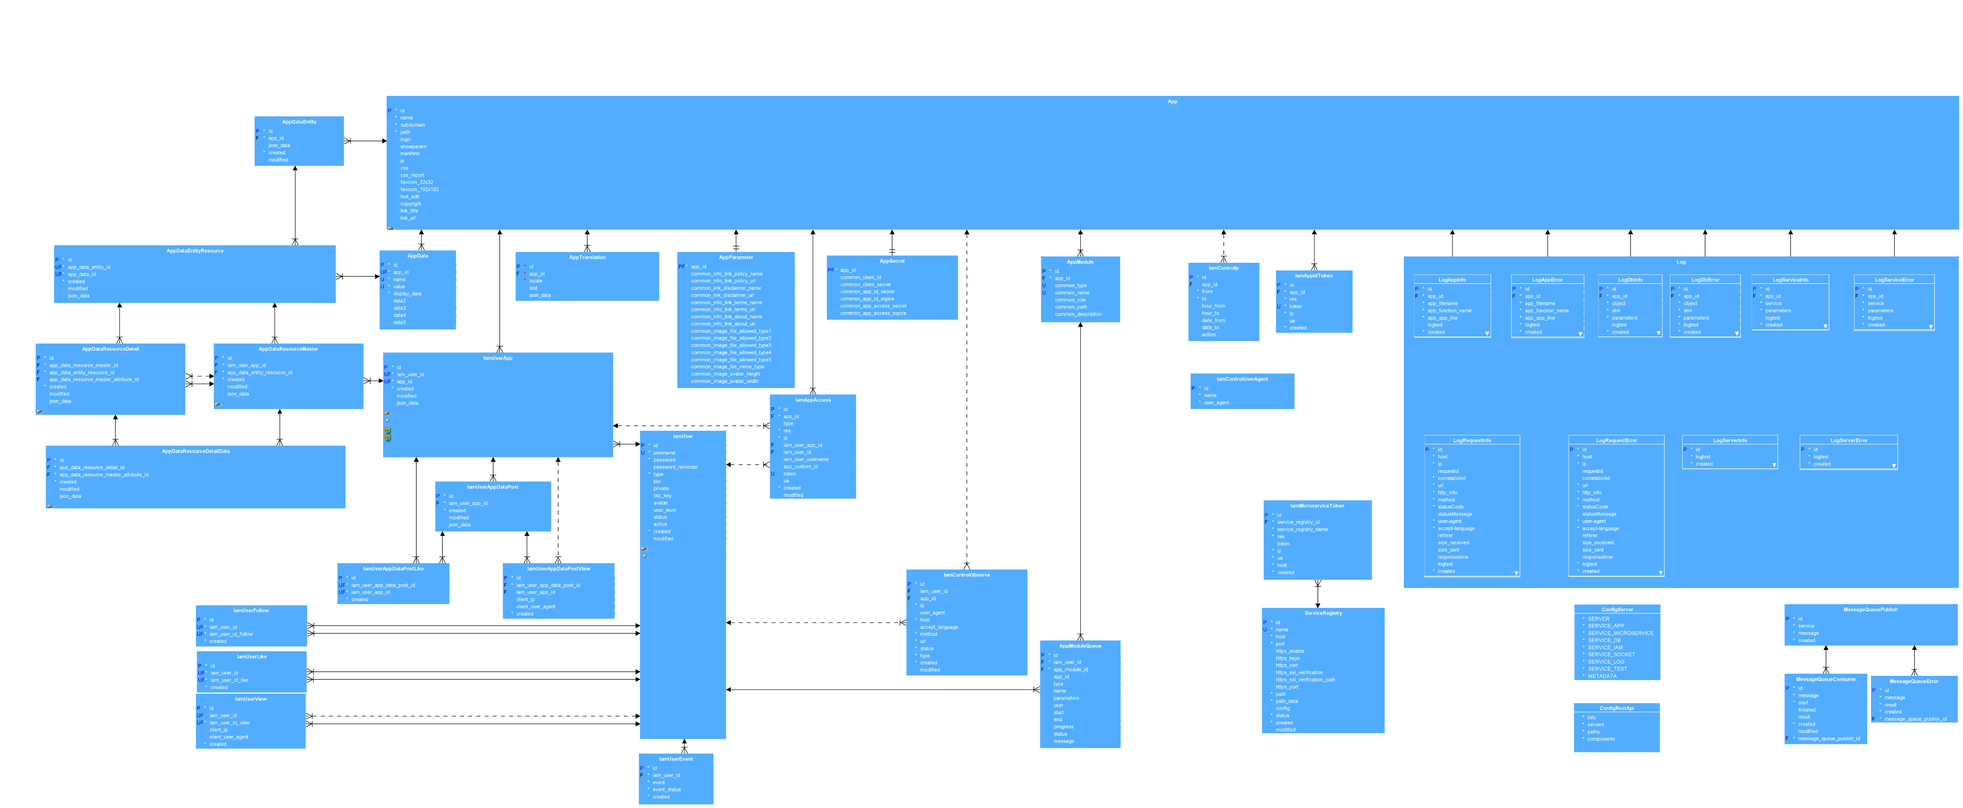
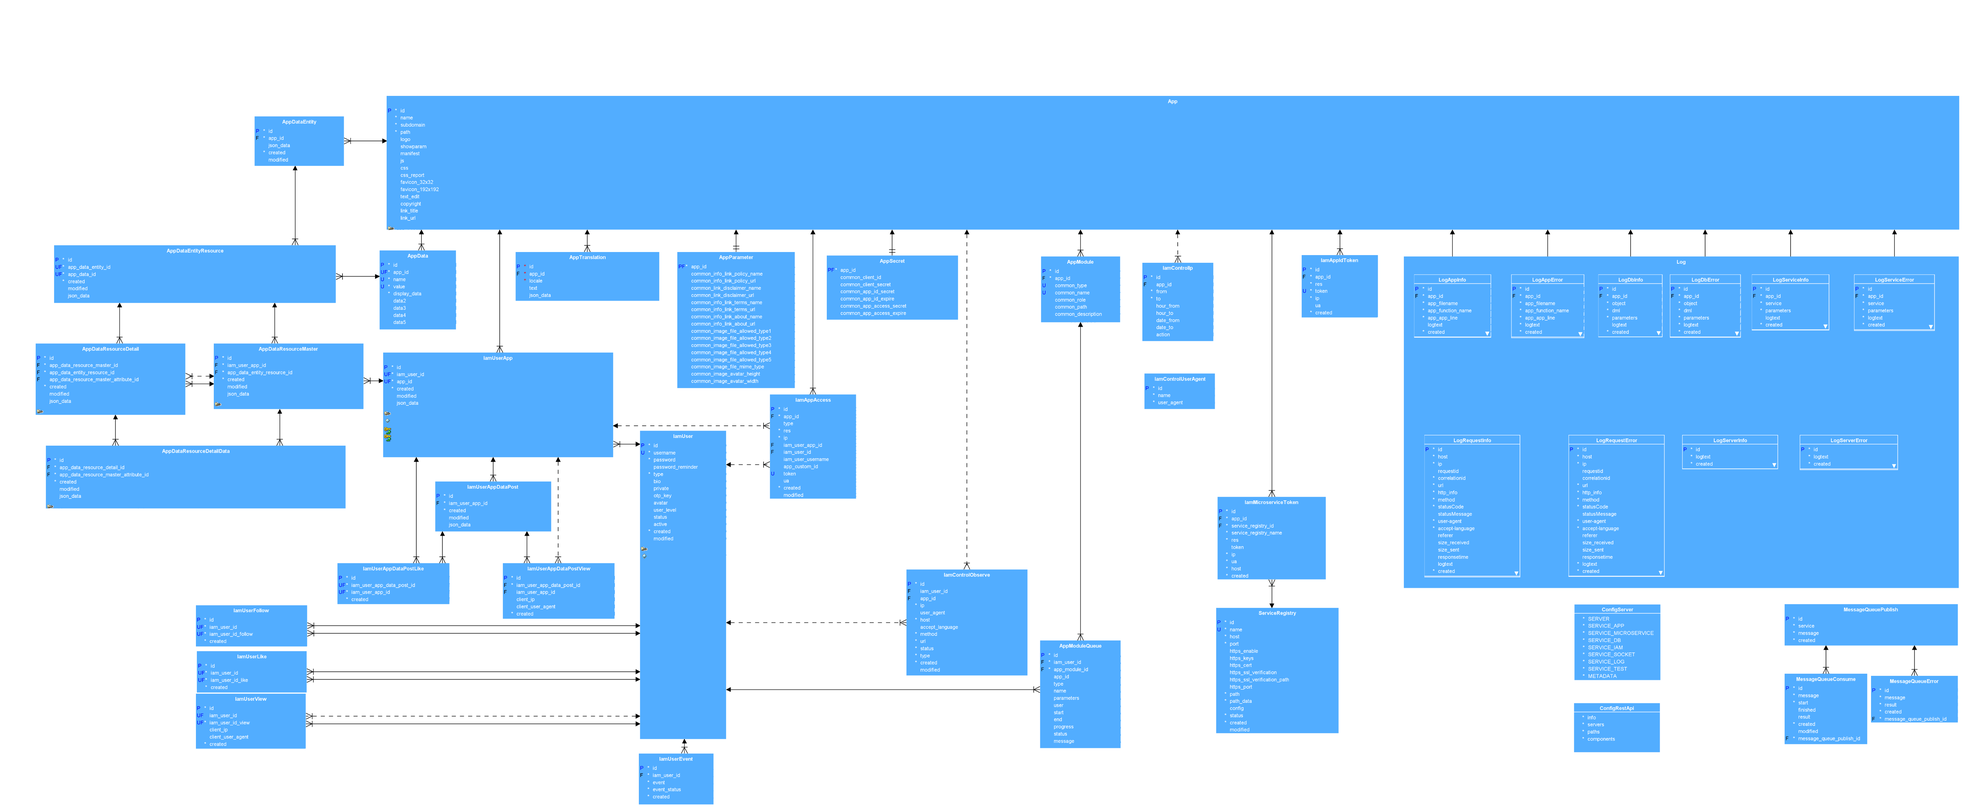
AP-41 adds FK from App to IamMicroserviceToken in data model, adds route for /bff/microservice/v1 and /bff/microservice_auth/v1, adds rest api /bff/microservice_auth/v1/server-iam-microservice/{IAM_service} that returns token to microservice, adds iamAuthenticateMicroservice() and updates iamAuthent

Changed region(s): [[0.5613, 0.3119, 0.7172, 0.5302], [0.5924, 0.7486, 0.7172, 0.9045], [0.5924, 0.5926, 0.7172, 0.7174]]

diff --git a/server/iam.js b/server/iam.js
@@ -7,6 +7,8 @@
  *          server_db_config_server_server,
  *          server_db_table_IamAppIdToken,
  *          server_db_table_IamAppAccess,
+ *          server_db_table_IamMicroserviceToken,
+ *          server_db_table_ServiceRegistry,
  *          server_db_table_IamUser,
  *          server_db_table_IamUserApp,
  *          server_db_table_IamUserEvent,
@@ -688,22 +690,39 @@ const iamAuthenticateUserAppDelete = async parameters => {
  */
  const iamAuthenticateUserCommon = async parameters  =>{
     const app_id_host = commonAppHost(parameters.host);
-    //APP_EXTERNAL and APP_ACCESS_EXTERNALK do not use idToken
-    if ((parameters.idToken ||parameters.endpoint=='APP_EXTERNAL' ||parameters.endpoint=='APP_ACCESS_EXTERNAL') && parameters.endpoint && app_id_host !=null){
+    //APP_EXTERNAL, APP_ACCESS_EXTERNALK, MICROSERVICE and MICROSERVICE_AUTH do not use idToken
+    if ((   parameters.idToken ||
+            parameters.endpoint=='APP_EXTERNAL' ||
+            parameters.endpoint=='APP_ACCESS_EXTERNAL' ||
+            parameters.endpoint=='MICROSERVICE' ||
+            parameters.endpoint=='MICROSERVICE_AUTH') && parameters.endpoint && app_id_host !=null){
         const app_id_admin = serverUtilNumberValue(ConfigServer.get({app_id:app_id_host, data:{config_group:'SERVER',parameter:'APP_ADMIN_APP_ID'}}).result);
         try {
             //authenticate id token
             const id_token_decoded = (parameters.endpoint=='APP_EXTERNAL' || parameters.endpoint=='APP_ACCESS_EXTERNAL')?null:iamUtilTokenGet(app_id_host, parameters.idToken, 'APP_ID');
             /**@type{server_db_table_IamAppIdToken}*/
-            const log_id_token = (parameters.endpoint=='APP_EXTERNAL' || parameters.endpoint=='APP_ACCESS_EXTERNAL')?null:IamAppIdToken.get({app_id:app_id_host, resource_id:null}).result.filter((/**@type{server_db_table_IamAppIdToken}*/row)=> 
-                                                                                    row.app_id == app_id_host && row.ip == parameters.ip && row.token == parameters.idToken
-                                                                                    )[0];
-            if (parameters.endpoint=='APP_EXTERNAL' || parameters.endpoint=='APP_ACCESS_EXTERNAL' || (id_token_decoded?.app_id == app_id_host && 
+            const log_id_token = (  parameters.endpoint=='APP_EXTERNAL' || 
+                                    parameters.endpoint=='APP_ACCESS_EXTERNAL'||
+                                    parameters.endpoint=='MICROSERVICE'||
+                                    parameters.endpoint=='MICROSERVICE_AUTH')?
+                                        null:
+                                            IamAppIdToken.get({ app_id:app_id_host, 
+                                                                resource_id:null})
+                                            .result.filter((/**@type{server_db_table_IamAppIdToken}*/row)=> 
+                                                row.app_id == app_id_host && row.ip == parameters.ip && row.token == parameters.idToken)[0];
+            if (parameters.endpoint=='APP_EXTERNAL' || 
+                parameters.endpoint=='APP_ACCESS_EXTERNAL' || 
+                parameters.endpoint=='MICROSERVICE' || 
+                parameters.endpoint=='MICROSERVICE_AUTH' || 
+                (id_token_decoded?.app_id == app_id_host && 
                 (id_token_decoded.scope == 'APP' ||id_token_decoded.scope == 'REPORT' ||id_token_decoded.scope == 'MAINTENANCE') && 
                 id_token_decoded.ip == parameters.ip &&
                 log_id_token)){
-                //External token is not authenticated here
-                if (parameters.endpoint=='APP_ID' || parameters.endpoint=='APP_EXTERNAL' ||parameters.endpoint=='APP_ACCESS_EXTERNAL')
+                //External token is not authenticated here, if APP_ID or MICROSERVICE_AUTH then continue
+                if (parameters.endpoint=='APP_ID' || 
+                    parameters.endpoint=='APP_EXTERNAL' ||
+                    parameters.endpoint=='APP_ACCESS_EXTERNAL'||
+                    parameters.endpoint=='MICROSERVICE_AUTH')
                     parameters.next();
                 else{
                     //validate parameters.endpoint, app_id and authorization
@@ -729,23 +748,21 @@ const iamAuthenticateUserAppDelete = async parameters => {
                             if (access_token_decoded.app_id == app_id_host && 
                                 access_token_decoded.scope == 'USER' && 
                                 access_token_decoded.ip == parameters.ip ){
-                                /**@type{server_db_table_IamAppAccess}*/
-                                const iam_app_access = IamAppAccess.get(app_id_host, null).result
-                                                        .filter((/**@type{server_db_table_IamAppAccess}*/row)=>
-                                                                                                //Authenticate IAM user
-                                                                                                row.iam_user_app_id         == access_token_decoded.iam_user_app_id && 
-                                                                                                row.iam_user_id             == access_token_decoded.iam_user_id && 
-                                                                                                row.iam_user_username       == access_token_decoded.iam_user_username && 
-                                                                                                //Authenticate app id corresponds to current subdomain
-                                                                                                row.app_id                  == app_id_host &&
-                                                                                                //Authenticate token is valid
-                                                                                                row.res                     == 1 &&
-                                                                                                //Authenticate IP address
-                                                                                                row.ip                      == parameters.ip &&
-                                                                                                //Authenticate the token string
-                                                                                                row.token                   == access_token
-                                                                                            )[0];
-                                if (iam_app_access)
+                                if (IamAppAccess.get(app_id_host, null).result
+                                    .filter((/**@type{server_db_table_IamAppAccess}*/row)=>
+                                                                            //Authenticate IAM user
+                                                                            row.iam_user_app_id         == access_token_decoded.iam_user_app_id && 
+                                                                            row.iam_user_id             == access_token_decoded.iam_user_id && 
+                                                                            row.iam_user_username       == access_token_decoded.iam_user_username && 
+                                                                            //Authenticate app id corresponds to current subdomain
+                                                                            row.app_id                  == app_id_host &&
+                                                                            //Authenticate token is valid
+                                                                            row.res                     == 1 &&
+                                                                            //Authenticate IP address
+                                                                            row.ip                      == parameters.ip &&
+                                                                            //Authenticate the token string
+                                                                            row.token                   == access_token
+                                                                        )[0])
                                     parameters.next();
                                 else
                                     iamUtilResponseNotAuthorized(parameters.res, 401, 'iamAuthenticateUserCommon');
@@ -756,6 +773,51 @@ const iamAuthenticateUserAppDelete = async parameters => {
                         }
                         case parameters.endpoint=='IAM_SIGNUP' && serverUtilNumberValue(ConfigServer.get({app_id:app_id_host, data:{config_group:'SERVICE_IAM', parameter:'ENABLE_USER_REGISTRATION'}}).result)==1 && app_id_host!= app_id_admin:{
                             parameters.next();
+                            break;
+                        }
+                        case parameters.endpoint=='MICROSERVICE':{
+                            const ServiceRegistry = await import('./db/ServiceRegistry.js');
+                            const IamMicroserviceToken = await import('./db/IamMicroserviceToken.js');
+                            //authenticate access token
+                            const microservice_token = parameters.authorization?.split(' ')[1] ?? '';
+                            /**@type{*} */
+                            const microservice_token_decoded = jwt.verify(  microservice_token.replace('Bearer ','').replace('Basic ',''),
+                                                                            ConfigServer.get({  app_id:app_id_host, 
+                                                                                                data:{  config_group:'SERVICE_IAM', 
+                                                                                                        parameter:'MICROSERVICE_TOKEN_SECRET'}}).result);
+                            /**@type{server_db_table_ServiceRegistry}*/
+                            const service = ServiceRegistry.get({   app_id:app_id_host,
+                                                                    resource_id:null, 
+                                                                    data:{name:microservice_token_decoded.service_registry_name}}).result;
+                            /**@type{server_db_table_IamMicroserviceToken[]}*/
+                            if (microservice_token_decoded.app_id == app_id_host && 
+                                microservice_token_decoded.service_registry_id == service.id &&
+                                microservice_token_decoded.service_registry_name == service.name &&
+                                microservice_token_decoded.scope == 'MICROSERVICE' && 
+                                microservice_token_decoded.ip == parameters.ip &&
+                                microservice_token_decoded.host == parameters.host.split(':')[0]){
+                                if (IamMicroserviceToken.get({app_id:app_id_host, resource_id:null}).result
+                                    .filter((/**@type{server_db_table_IamMicroserviceToken}*/row)=>
+                                                                            //Authenticate service registry same id and name as in record
+                                                                            row.service_registry_id     == service.id &&
+                                                                            row.service_registry_name   == service.name &&
+                                                                            //Authenticate app id corresponds to current subdomain
+                                                                            row.app_id                  == app_id_host &&
+                                                                            //Authenticate token is valid
+                                                                            row.res                     == 1 &&
+                                                                            //Authenticate IP address
+                                                                            row.ip                      == parameters.ip &&
+                                                                            //Authenticate host
+                                                                            row.host                    == parameters.host.split(':')[0] &&
+                                                                            //Authenticate the token string
+                                                                            row.token                   == microservice_token
+                                                                        )[0])
+                                    parameters.next();
+                                else
+                                    iamUtilResponseNotAuthorized(parameters.res, 401, 'iamAuthenticateUserCommon');
+                            }
+                            else
+                                iamUtilResponseNotAuthorized(parameters.res, 401, 'iamAuthenticateUserCommon');
                             break;
                         }
                         default:{
@@ -1099,7 +1161,7 @@ const iamAuthenticateUserAppDelete = async parameters => {
 };
 /**
  * @name iamAuthenticateResource
- * @description Authenticate resource using IAM_iam_user_id or IAM_data_app_id key used as REST API parameter
+ * @description Authenticate resource used as REST API parameter
  *              Authenticates using access token if provided or else the idToken
  * @function
  * @param { {app_id:number|null,
@@ -1175,7 +1237,74 @@ const iamAuthenticateResource = parameters =>  {
         return false;
     }
 };
-                                            
+/**
+ * @name iamAuthenticateMicroservice
+ * @description Authenticate microservice that should use a host in ServiceRegistry
+ *              and saves ip, user agent and app id to be authenticated
+ * @function
+ * @param { {app_id:number,
+ *           ip:string,
+ *           host:string,
+ *           user_agent:string,
+ *           data:{service:string}}} parameters
+ * @returns {Promise.<server_server_response>}
+ */
+const iamAuthenticateMicroservice = async parameters =>{
+    const ServiceRegistry = await import('./db/ServiceRegistry.js');
+    const service = ServiceRegistry.get({app_id:parameters.app_id, resource_id:null, data:{name:parameters.data.service}}).result;
+    //service name and calling host without port should be registered in service registry
+    if (service.length==1 && service.host == parameters.host.split(':')[0]){
+        const IamMicroserviceToken = await import('./db/IamMicroserviceToken.js');
+        const token = jwt.sign ({
+                                    app_id: parameters.app_id, 
+                                    service_registry_id:service.id,
+                                    service_registry_name: service.name,
+                                    ip:parameters.ip ?? '', 
+                                    ua:parameters.user_agent,
+                                    host:parameters.host,
+                                    scope:'MICROSERVICE'}, 
+                                    ConfigServer.get({  app_id:parameters.app_id, 
+                                                        data:{
+                                                            config_group:'SERVICE_MICROSERVICE',
+                                                            parameter:'TOKEN_SECRET'
+                                                        }
+                                                    }).result, 
+                                    {expiresIn: ConfigServer.get({  app_id:parameters.app_id, 
+                                        data:{
+                                            config_group:'SERVICE_MICROSERVICE',
+                                            parameter:'TOKEN_EXPIRE_ACCESS'
+                                        }
+                                    }).result});
+            const jwt_data = {token:token,
+                    /**@ts-ignore */
+                    exp:jwt.decode(token, { complete: true }).payload.exp,
+                    /**@ts-ignore */
+                    iat:jwt.decode(token, { complete: true }).payload.iat,
+                    /**@ts-ignore */
+                    tokentimestamp:jwt.decode(token, { complete: true }).payload.tokentimestamp};
+        
+            return IamMicroserviceToken.post(
+                    parameters.app_id, 
+                    {	app_id:     parameters.app_id,
+                        service_registry_id:service.id,
+                        service_registry_name: service.name,
+                        res:		1,
+                        token:   	jwt_data.token,
+                        ip:         parameters.ip ?? '',
+                        ua:         parameters.user_agent,
+                        host:       parameters.host})
+                    .then(result=>{ return result.http?result:{result:jwt_data, type:'JSON'};});
+    }
+    else
+        return {http:401,
+            code:'IAM',
+            text:iamUtilMessageNotAuthorized(),
+            developerText:null,
+            moreInfo:null,
+            type:'JSON'
+        };
+    
+};
 /**
  * @name iamAuthorizeIdToken
  * @description Authorize id token
@@ -1207,7 +1336,7 @@ const iamAuthenticateResource = parameters =>  {
  * @description Authorize token
  * @function
  * @param {number} app_id
- * @param {'APP_ID'|'APP_ACCESS'|'APP_ACCESS_VERIFICATION'|'ADMIN'|'APP_ACCESS_EXTERNAL'} endpoint
+ * @param {'APP_ID'|'APP_ACCESS'|'APP_ACCESS_VERIFICATION'|'ADMIN'|'APP_ACCESS_EXTERNAL'|'MICROSERVICE'} endpoint
  * @param {server_iam_access_token_claim} claim
  * @returns {{
  *              token:string, 
@@ -1455,6 +1584,7 @@ export{ iamUtilMessageNotAuthorized,
         iamAuthenticateRequest,
         iamAuthenticateApp,
         iamAuthenticateResource,
+        iamAuthenticateMicroservice,
         iamAuthorizeIdToken,
         iamAuthorizeToken,
         iamAppAccessGet,

diff --git a/server/types.js b/server/types.js
@@ -161,7 +161,7 @@
 
 /** 
  * @description BFF server_bff_endpoint_type
- * @typedef {'APP'|'APP_ID'|'APP_ACCESS'|'APP_ACCESS_VERIFICATION'|'APP_EXTERNAL'|'APP_ACCESS_EXTERNAL'|'ADMIN'|'SOCKET'|'IAM'|'IAM_SIGNUP'|'SERVER'} server_bff_endpoint_type
+ * @typedef {'APP'|'APP_ID'|'APP_ACCESS'|'APP_ACCESS_VERIFICATION'|'APP_EXTERNAL'|'APP_ACCESS_EXTERNAL'|'ADMIN'|'SOCKET'|'IAM'|'IAM_SIGNUP'|'SERVER'|'MICROSERVICE'|'MICROSERVICE_AUTH'} server_bff_endpoint_type
  */
 
 /**
@@ -392,15 +392,16 @@
 /** 
  * @description DB TABLE IamMicroserviceToken
  * @memberof dbObjects
- * @typedef {{id:     number,
- *            service_registry_id: number,
- *            service_registry_name: string,
- *		      res:	  0|1,
- *   	      token:  string,
- *		      ip:     string,
- *		      ua:     string|null,
- *            host:   string|null,
- *		      created:string}} server_db_table_IamMicroserviceToken
+ * @typedef {{id?:                  number,
+ *            app_id:               number,
+ *            service_registry_id:  number,
+ *            service_registry_name:string,
+ *		      res:	                0|1,
+ *   	      token:                string,
+ *		      ip:                   string,
+ *		      ua:                   string|null,
+ *            host:                 string|null,
+ *		      created?:string}} server_db_table_IamMicroserviceToken
  */
 
 /**
@@ -842,6 +843,8 @@
  * @typedef {{  AUTHENTICATE_REQUEST_ENABLE:string,
  *              AUTHENTICATE_REQUEST_OBSERVE_LIMIT:string,
  *              AUTHENTICATE_REQUEST_IP:string,
+ *              MICROSERVICE_TOKEN_EXPIRE_ACCESS:string,
+ *              MICROSERVICE_TOKEN_SECRET:string,
  *              ADMIN_TOKEN_EXPIRE_ACCESS:string,
  *              ADMIN_TOKEN_SECRET:string,
  *              ADMIN_PASSWORD_ENCRYPTION_KEY:string,
@@ -1260,7 +1263,7 @@
 
 /**
  * @description IAM server_iam_access_token_claim_scope_type
- * @typedef{'USER'|'APP'|'REPORT'|'MAINTENANCE'|'APP_EXTERNAL'} server_iam_access_token_claim_scope_type
+ * @typedef{'USER'|'APP'|'MICROSERVICE'|'REPORT'|'MAINTENANCE'|'APP_EXTERNAL'} server_iam_access_token_claim_scope_type
  */
 /**
  * @description IAM server_iam_access_token_claim

diff --git a/server/server.js b/server/server.js
@@ -626,7 +626,9 @@ const serverJs = async () => {
             const ID_TOKEN_KEY ='id-token';
             const idToken =role == 'APP'?
                             '':
-                                req.url.split('/')[2]?.toUpperCase().indexOf('EXTERNAL')>-1?
+                                //All external roles and microservice do not use AppId Token
+                                (req.url.split('/')[2]?.toUpperCase().indexOf('EXTERNAL')>-1 ||
+                                 req.url.split('/')[2]?.toUpperCase().indexOf('MICROSERVICE')>-1)?
                                     '':
                                         /**@ts-ignore */
                                         req.headers[ID_TOKEN_KEY].replace('Bearer ',''); 
@@ -682,6 +684,8 @@ const serverJs = async () => {
                 case req.path.startsWith('/bff/app_external/v1') && req.method=='POST':
                 case req.path.startsWith('/bff/app_access_external/v1') && req.method=='POST':
                 case req.path.startsWith('/bff/admin/v1') :
+                case req.path.startsWith('/bff/microservice/v1'):
+                case req.path.startsWith('/bff/microservice_auth/v1'):
                 case req.path.startsWith('/bff/iam/v1') && req.method=='POST':
                 case req.path.startsWith('/bff/iam_signup/v1') &&req.method=='POST':{
                     await bffRoute();

diff --git a/server/installation.js b/server/installation.js
@@ -865,6 +865,9 @@ const configDefault = async () => {
                                                                             //generate secrets
                                                                             config_server.SERVICE_IAM.map((/**@type{server_db_config_server_service_iam}*/row)=>{
                                                                                 for (const key of Object.keys(row)){
+                                                                                    if (key== 'MICROSERVICE_TOKEN_SECRET'){
+                                                                                        row.MICROSERVICE_TOKEN_SECRET = securitySecretCreate();
+                                                                                    }
                                                                                     if (key== 'ADMIN_TOKEN_SECRET'){
                                                                                         row.ADMIN_TOKEN_SECRET = securitySecretCreate();
                                                                                     }

diff --git a/server/db/IamMicroserviceToken.js b/server/db/IamMicroserviceToken.js
@@ -27,6 +27,7 @@ const get = parameters => {return {result:ORM.getObject(parameters.app_id, 'IamM
 const post = async (app_id, data) => {
     //check required attributes
     if (app_id!=null &&
+        data.app_id != null &&
         data.service_registry_id != null &&
         data.service_registry_name != null &&
         data.res != null &&
@@ -39,6 +40,7 @@ const post = async (app_id, data) => {
             const data_new = {};
             data_new.id = Date.now();
             //required
+            data_new.app_id =data.app_id; 
             data_new.service_registry_id = data.service_registry_id;
             data_new.service_registry_name = data.service_registry_name;
             data_new.res = data.res;
